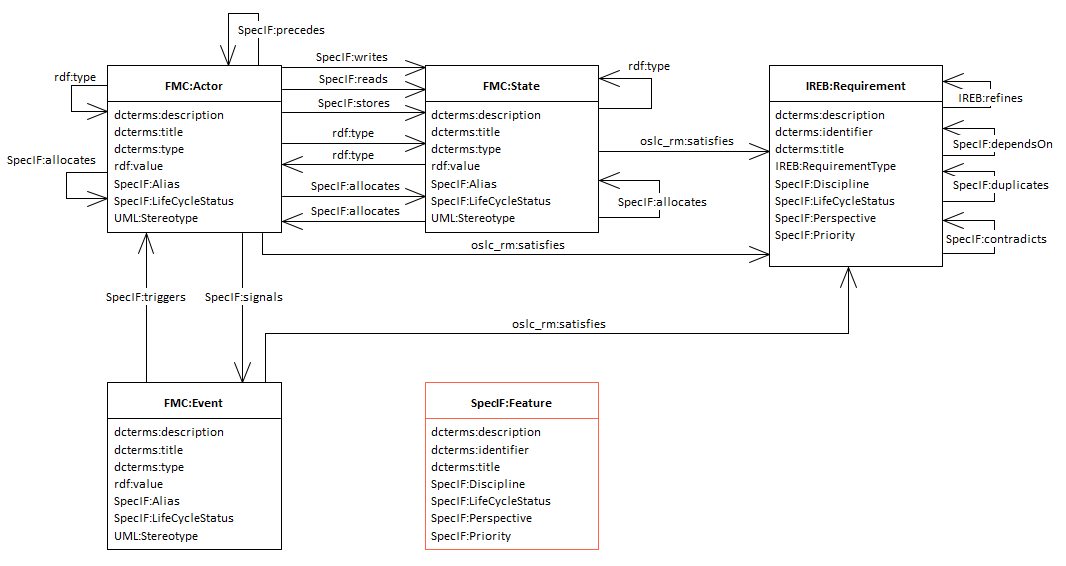
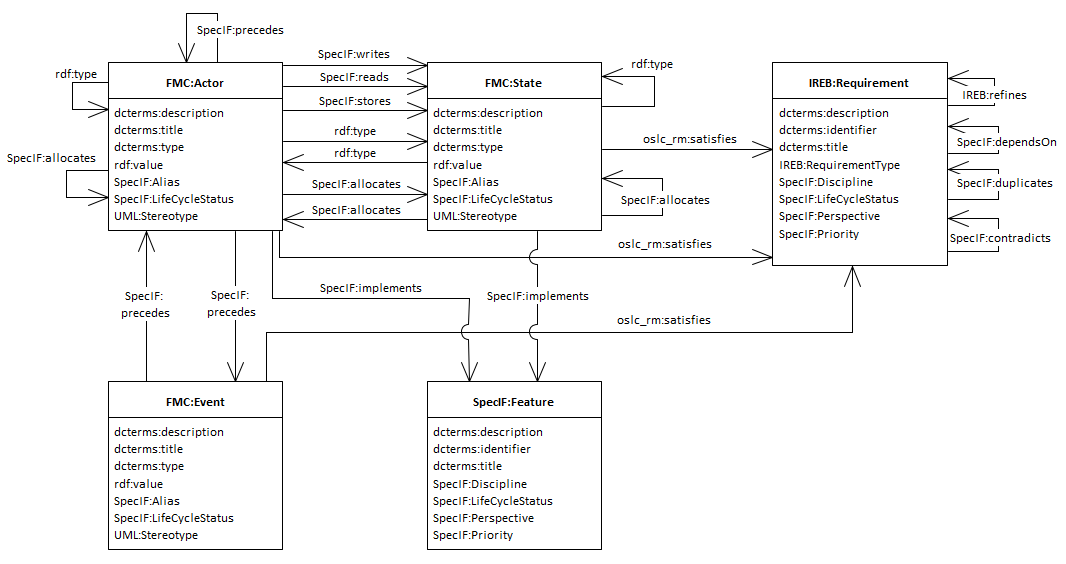
Updates after filling some knowledge gaps about feature relevant statements

diff --git a/documentation/06_Introduction_to_SpecIF_Model_Integration.md b/documentation/06_Introduction_to_SpecIF_Model_Integration.md
@@ -1,7 +1,7 @@
 # Introduction to SpecIF Model Integration
 
 The usage of SpecIF for a specific purpose is called an 'application'. 
-An important application is to integrate models and other specification artefacts from different sources. 
+An important application is to integrate models and other specification artifacts from different sources. 
 Currently transformations or importers exist for BPMN, Archimate, ReqIF, Excel and UML/SysML.
 
 The integration of elements of different sources is generally done by name and type. 
@@ -12,8 +12,7 @@ using a different set of types.
 Therefore an abstraction (or mapping) to three _fundamental_ model-element types is made, before checking for equality. 
 The model-element types of the _Fundamental Modeling Concepts (FMC)_ have been selected for this purpose,
 namely _Actor_, _State_ and _Event_. 
-Model-elements used by every method or notation can be mapped to these [Ref].
-
+Model-elements used by every method or notation can be mapped to these [[Dungern2016](https://specif.de/files/resources/enso-m/documents-en/TdSE-2016_Dungern_Semantic-Model-Integration-for-System-Specification_(Text).pdf)].
 
 ## Model Integration Resources
 
@@ -39,7 +38,7 @@ because they represent a current system state by their attribute values.
 
 While all model elements are mapped to the three fundamental elements, the original model element type
 is kept by the property *dcterms:type*. 
-Storing the the original model element in the dcterms:type property is also important for bidirectional transformations. 
+Storing the original model element in the dcterms:type property is also important for bidirectional transformations. 
 
 ### Requirement and Feature
 
@@ -98,7 +97,7 @@ For better readability of the class diagrams, the aspects are shown on more than
 You have to interpret the diagrams in combination to get the complete picture of SpecIF Model Integration.
 If two diagrams show a resource class with the same name, it is the same element and all associations defined by one diagram are also valid for the second diagram.
    
-## Model Integration Statements
+## Model Integration statements
 
 The statements in SpecIF are used to express a predicate logic (subject - predicate - object) between SpecIF elements.
 Examples for such logical expressions are:
@@ -109,7 +108,7 @@ Examples for such logical expressions are:
 
 In the context of model integration we differentiate between statements to express behavioral aspects and structural aspects.
 
-### Expressing Structure
+### Expressing structure
 
 Structural aspects are expressed with the following statements:
 
@@ -125,6 +124,8 @@ This is known as the concept of separation of model and view.
 
 ![Application of the shows statement in SpecIF](./images/Shows.png)
 
+### Expressing traceability aspects
+
 * To express traceability-dependencies between requirement elements and requirements or other element types, the following statements are used:
   * A requirement *refines* a requirement
   * A requirement *dependsOn* a requirement
@@ -133,14 +134,16 @@ This is known as the concept of separation of model and view.
   * A model element (state, actor or event) *satisfies* a requirement
 * The concept of Allocation known systems engineering is mapped to SpecIF by defining the *allocates* statement
 
-### Expressing Behavior
+### Expressing behavior
 
 To express the behavioral aspects of a system or a process the following statements are available in SpecIF:
 
 * An actor *writes* a state. In a system composition a function writes a value.
 * An actor *reads* a state. In a system composition a function reads a value.
 * An actor *stores* a state. This is the combination of read and write and equates to a bi-directional data or material exchange.
-* An actor *precedes* and actor. This is used typically to express that a behavior consists of a sequence of actions and/or events. 
+* An actor *precedes* and actor. This is used to express that a behavior consists of a sequence of actions.
+* An actor *precedes* an event with dcterms:type set to *SpecIF:signals*. This is used to express that an event is created by an action.
+* An event *precedes* an actor with dcterms:type set to *SpecIF:triggers*. This is used to express that an action is triggered by an incoming event.  
 
 The following diagram shows the behavioral statements used in SpecIF model integration.
 
@@ -153,7 +156,7 @@ To express that a resource is an instance of another resource (e.g. an Object is
 This statement expresses that the subject is an instance of the statement object.
 Use this statement in all cases where a class-instance semantics shall be expressed. 
 
-### Document Outlines
+### Document outlines
 
 SpecIF defines resource class types useful for applications dealing with textual documentation. 
 Typical application scenarios are 
